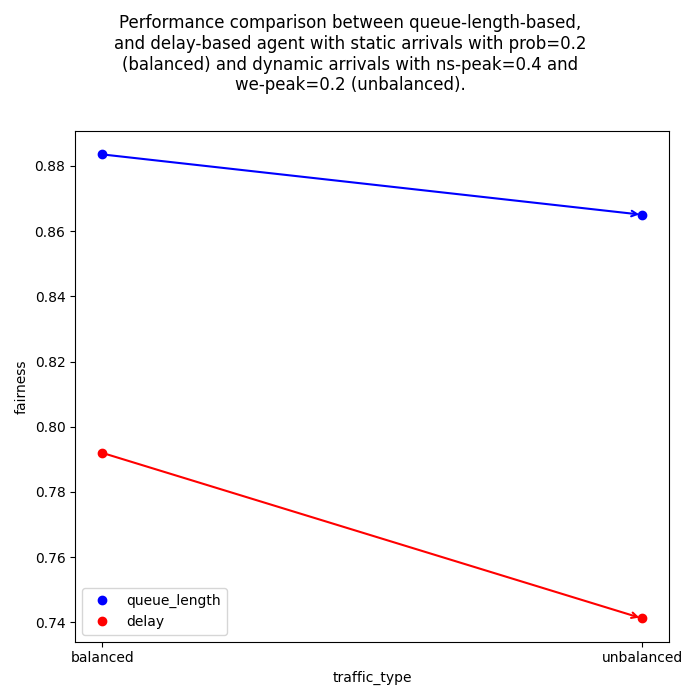
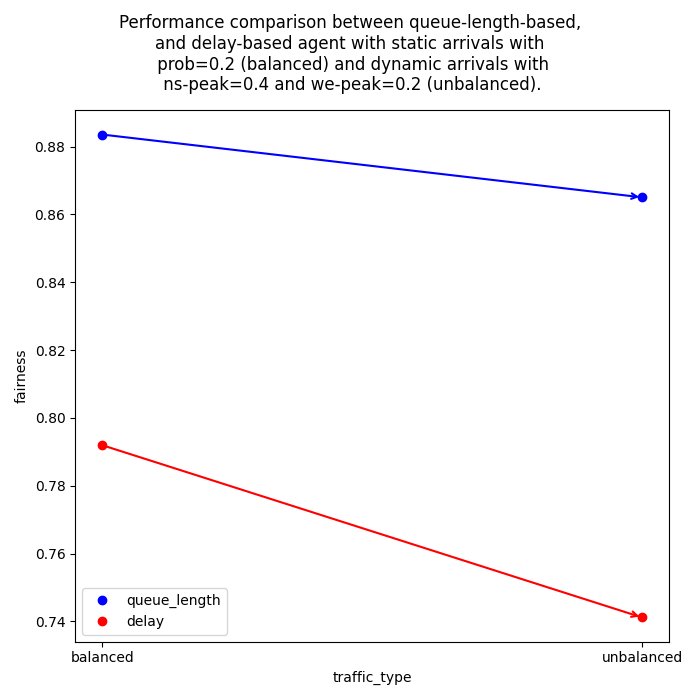
changes for unifying the plots

diff --git a/plot_tail_dist.py b/plot_tail_dist.py
@@ -1,16 +1,17 @@
 import json
 import matplotlib.pyplot as plt
 # To read data from file:
-delays_ql = json.load(open("data/json/delays_queue_length.json"))
+delays_ql = json.load(open("data/json/delays_ql.json"))
 
-delays_d = json.load(open("data/json/delays_delay.json"))
+delays_d = json.load(open("data/json/delays_d.json"))
 
 
 boxplot_data_ql = json.load(open("data/json/lane_delays_dict_ql.json"))
 boxplot_data_d = json.load(open("data/json/lane_delays_dict_d.json"))
 
-delays_ql = [float(a) for a in boxplot_data_ql['2']]
-delays_d = [float(a) for a in boxplot_data_d['2']]
+
+#delays_ql = [float(a) for a in boxplot_data_ql['0']]+[float(a) for a in boxplot_data_ql['1']]+[float(a) for a in boxplot_data_ql['2']]+[float(a) for a in boxplot_data_ql['3']]
+#delays_d = [float(a) for a in boxplot_data_d['0']]+[float(a) for a in boxplot_data_d['1']]+[float(a) for a in boxplot_data_d['2']]+[float(a) for a in boxplot_data_d['3']]
 
 
 print('length delays_ql:',len(delays_ql))
@@ -92,7 +93,7 @@ ax.legend(['queue_length', 'delay'], loc='upper right')
 ax.set(xlabel='t(s)', ylabel='P(Delay>t)')
 
 plt.suptitle('Delay tail distribution with dynamic arrival \n'
-             'with ns-peak=0.4 and we-peak=0.2 on lane 2.\n')
+             'with ns-peak=0.4 and we-peak=0.2.')
 
 fig.tight_layout()
 

diff --git a/experiments/comp_boxplot_tail_dist.py b/experiments/comp_boxplot_tail_dist.py
@@ -27,7 +27,7 @@ def main(args):
     agent_config, env_config, reward_config, net_arch, train_config, meta_config = parse_config(args)
     env = generate_env_from_config(env_config, reward_config)
     eval_env = Monitor(env)
-    model = DQN.load('./best_models/best_model_dynamic_delay.zip')
+    model = DQN.load('./best_models/best_model_dynamic.zip')
     obs = env.reset()
 
     # file stored as /tmp/tmpxfdfe343id
@@ -110,9 +110,9 @@ def main(args):
 
     import json
 
-    json.dump(delays, open("data/json/delays_d.json", 'w'))
+    json.dump(delays, open("data/json/delays_ql.json", 'w'))
 
-    json.dump(lane_delays_dict, open("data/json/lane_delays_dict_d.json", 'w'))
+    json.dump(lane_delays_dict, open("data/json/lane_delays_dict_ql.json", 'w'))
 
     # Jain's fairness index
     # Equals 1 when all vehicles have the same delay
@@ -140,7 +140,7 @@ def main(args):
     print('delays length:', len(delays))
     print('lane_index_list length:',len(lane_index_lst))
     # To save the dictionary into a file:
-    json.dump(lane_id_queue_length_dict, open("data/json/boxplot_d.json", 'w'))
+    json.dump(lane_id_queue_length_dict, open("data/json/boxplot_ql.json", 'w'))
     print('Data stored to json file')
 
 

diff --git a/plot_fairness_balanced_unbalanced.py b/plot_fairness_balanced_unbalanced.py
@@ -12,7 +12,7 @@ ax.plot(traffic_type, fairness_index, 'bo')
 ax.plot(traffic_type, fairness_index_delay, 'ro')
 
 ax.set(xlabel='traffic_type', ylabel='fairness')
-ax.legend(['queue_length','delay'], loc='lower left')
+ax.legend(['queue_length', 'delay'], loc='lower left')
 
 # plt.arrow(0,fairness_index[0],1,fairness_index[1]-fairness_index[0], color='blue')
 ax.annotate("", xy=(1, fairness_index[1]), xytext=(0, fairness_index[0]), arrowprops=dict(arrowstyle="->",color='b',linewidth=1.5))
@@ -20,9 +20,9 @@ ax.annotate("", xy=(1, fairness_index_delay[1]), xytext=(0, fairness_index_delay
 
 
 fig.suptitle('Performance comparison between queue-length-based,\n'
-             'and delay-based agent with static arrivals with prob=0.2\n'
-             '(balanced) and dynamic arrivals with ns-peak=0.4 and\n'
-             'we-peak=0.2 (unbalanced).\n')
+             'and delay-based agent with static arrivals with\n'
+             ' prob=0.2 (balanced) and dynamic arrivals with\n'
+             ' ns-peak=0.4 and we-peak=0.2 (unbalanced).')
 
 fig.tight_layout()
 plt.show()
